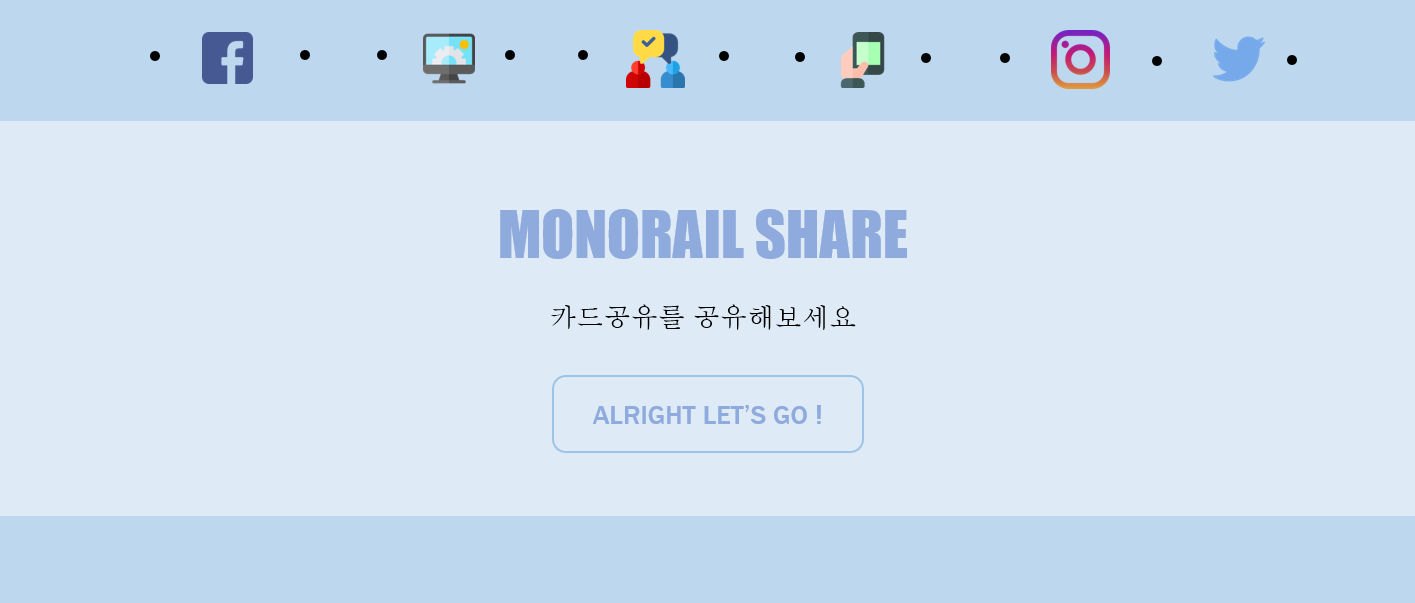
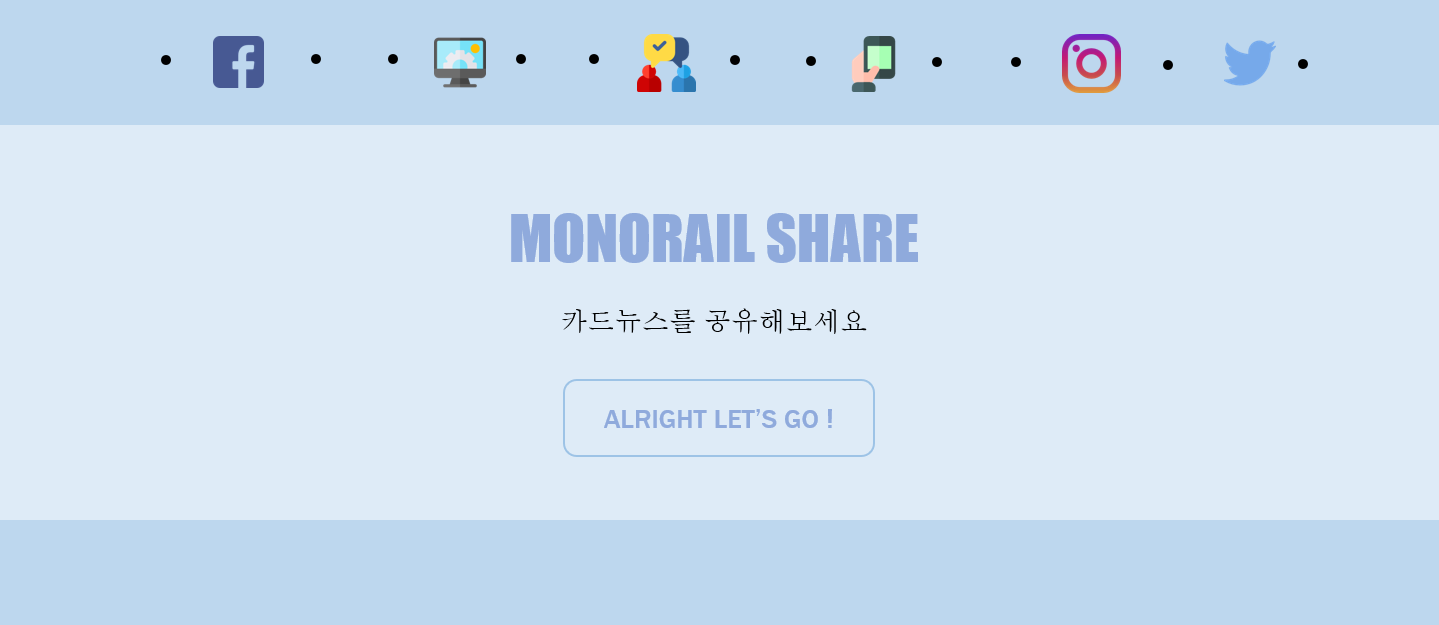
사이트 소개 수정 / 각 페이지 <!-- Footer -->부분 통일
사이트 소개 <!-- Highlight --> 부분 수정

diff --git a/html5up-txt/공유.html b/html5up-txt/공유.html
@@ -21,8 +21,8 @@
 				<header id="header">
 					<div class="logo container">
 						<div>
-							<h1><a href="사이트 소개.html" id="logo">TXT</a></h1>
-							<p>A responsive site template by HTML5 UP</p>
+							<h1><a href="사이트 소개.html" id="logo">Y-09 monorail</a></h1>
+							<p>당신의 게시물을 공유해드립니다.</p>
 						</div>
 					</div>
 				</header>
@@ -31,6 +31,7 @@
 				<nav id="nav">
 					<ul>
 						<li><a href="사이트 소개.html">사이트 소개</a></li>
+						<li class="current"><a href="공유.html">공유</a></li>
 						<li>
 							<a href="#">공유</a>
 							<ul>
@@ -81,13 +82,18 @@
 
 								<!-- About -->
 									<section>
-										<h2 class="major"><span>What's this about?</span></h2>
+										<h2 class="major"><span>이 사이트는</span></h2>
 										<p>
-											This is <strong>TXT</strong>, yet another free responsive site template designed by
+											이 사이트는 <a href="http://twitter.com/ajlkn">AJ</a>가 제공한 <a href="http://html5up.net">HTML5 UP</a>을 이용한
+											무료 사이트 템플릿으로 제작 되었으며 <a href="http://html5up.net/license/">Creative Commons Attribution</a>라이선스 하에
+											배포 되었습니다.
+
+											<!--This is <strong>TXT</strong>, yet another free responsive site template designed by
 											<a href="http://twitter.com/ajlkn">AJ</a> for <a href="http://html5up.net">HTML5 UP</a>. It's released under the
 											<a href="http://html5up.net/license/">Creative Commons Attribution</a> license so feel free to use it for
 											whatever you're working on (personal or commercial), just be sure to give us credit for the design.
 											That's basically it :)
+											-->
 										</p>
 									</section>
 
@@ -96,7 +102,9 @@
 
 								<!-- Contact -->
 									<section>
-										<h2 class="major"><span>Get in touch</span></h2>
+										<h2 class="major"><span>그 외 연락 방법</span></h2>
+										<p>기대하지 마세요</p>
+									<!--	<h2 class="major"><span>Get in touch</span></h2>
 										<ul class="contact">
 											<li><a class="icon fa-facebook" href="#"><span class="label">Facebook</span></a></li>
 											<li><a class="icon fa-twitter" href="#"><span class="label">Twitter</span></a></li>
@@ -104,6 +112,7 @@
 											<li><a class="icon fa-dribbble" href="#"><span class="label">Dribbble</span></a></li>
 											<li><a class="icon fa-linkedin" href="#"><span class="label">LinkedIn</span></a></li>
 										</ul>
+									-->
 									</section>
 
 							</div>
@@ -112,7 +121,7 @@
 						<!-- Copyright -->
 							<div id="copyright">
 								<ul class="menu">
-									<li>&copy; Untitled. All rights reserved</li><li>Design: <a href="http://html5up.net">HTML5 UP</a></li>
+									<li>&copy; 팀 모노레일</li><li>Design: <a href="http://html5up.net">HTML5 UP</a></li>
 								</ul>
 							</div>
 

diff --git a/html5up-txt/사이트 소개.html b/html5up-txt/사이트 소개.html
@@ -46,15 +46,14 @@
 						<li><a href="right-sidebar.html">라이선스</a></li>
 						<li><a href="no-sidebar.html">문의</a></li>
 						-->
+
 					<ul>
-						<li class="current"><a href="사이트 소개.html">
-						사이트 소개</a></li>
+						<li class="current"><a href="사이트 소개.html">사이트 소개</a></li>
 						<li><a href="공유.html">공유</a></li>
 						<li><a href="라이선스.html">라이선스</a></li>
 						<li><a href="문의.html">문의</a></li>
 					</ul>
 				</nav>
-
 			<!-- Banner -->
 				<section id="banner">
 				   	<div class="content">
@@ -74,10 +73,12 @@
 								<!-- Highlight -->
 									<section class="box highlight">
 										<ul class="special">
-											<li><a href="#" class="icon fa-search"><span class="label">Magnifier</span></a></li>
-											<li><a href="#" class="icon fa-tablet"><span class="label">Tablet</span></a></li>
-											<li><a href="#" class="icon fa-flask"><span class="label">Flask</span></a></li>
-											<li><a href="#" class="icon fa-cog"><span class="label">Cog?</span></a></li>
+											<ul>
+												<li><a href="#" class="icon fa-search"><span class="label">사이트 소개</span></a></li>
+												<li><a href="공유.html" class="icon fa-tablet"><span class="label">공유</span></a></li>
+												<li><a href="라이선스.html" class="icon fa-flask"><span class="label">라이선스</span></a></li>							
+												<li><a href="문의.html" class="icon fa-cog"><span class="label">문의</span></a></li>
+											</ul>
 										</ul>
 										<header>
 											<h2>저희 사이트는 당신의 생각을 공유해드립니다.</h2>
@@ -283,7 +284,7 @@
 								<!-- Contact -->
 									<section>
 										<h2 class="major"><span>그 외 연락 방법</span></h2>
-										<p>없으니 하지 마세요~</p>
+										<p>있겠어요?</p>
 									<!--	<h2 class="major"><span>Get in touch</span></h2>
 										<ul class="contact">
 											<li><a class="icon fa-facebook" href="#"><span class="label">Facebook</span></a></li>

diff --git a/html5up-txt/라이선스.html b/html5up-txt/라이선스.html
@@ -509,7 +509,7 @@
 								<!-- Contact -->
 									<section>
 										<h2 class="major"><span>그 외 연락 방법</span></h2>
-										<p>그런거 없어요!</p>
+										<p>기대하지 마시라구요~</p>
 										<!--<ul class="contact">-->
 											<!--<li><a class="icon fa-facebook" href="#"><span class="label">Facebook</span></a></li>-->
 											<!--<li><a class="icon fa-twitter" href="#"><span class="label">Twitter</span></a></li>-->

diff --git a/html5up-txt/문의.html b/html5up-txt/문의.html
@@ -217,7 +217,7 @@
 								<!-- Contact -->
 									<section>
 										<h2 class="major"><span>그 외 연락 방법</span></h2>
-										<p>그런거 없어요!</p>
+										<p>진짜 없어요</p>
 										<!--<ul class="contact">-->
 											<!--<li><a class="icon fa-facebook" href="#"><span class="label">Facebook</span></a></li>-->
 											<!--<li><a class="icon fa-twitter" href="#"><span class="label">Twitter</span></a></li>-->

diff --git a/html5up-txt/assets/css/main.css b/html5up-txt/assets/css/main.css
@@ -2471,7 +2471,8 @@ input, select, textarea {
 
 		#banner .content {
 			position: relative;
-			background-color: rgba(21, 28, 23, 0.85);
+			/*background-color: rgba(248, 250, 248, 0.85);*/
+			
 			background-image: url("images/overlay.png"), url("images/highlight.png");
 			background-position: top left, center center;
 			background-size: auto, 100% 250%;
